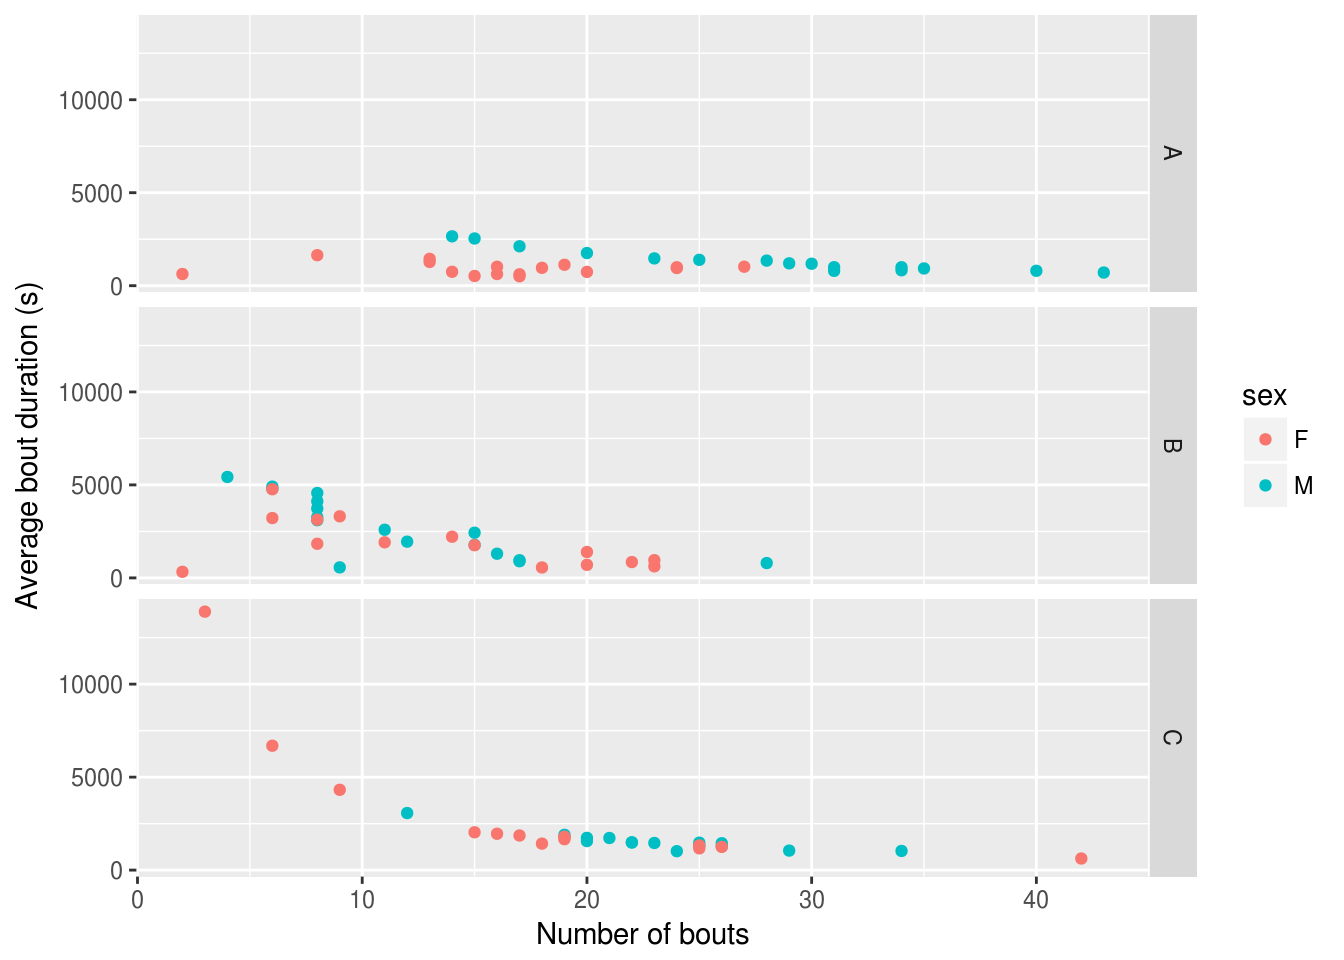
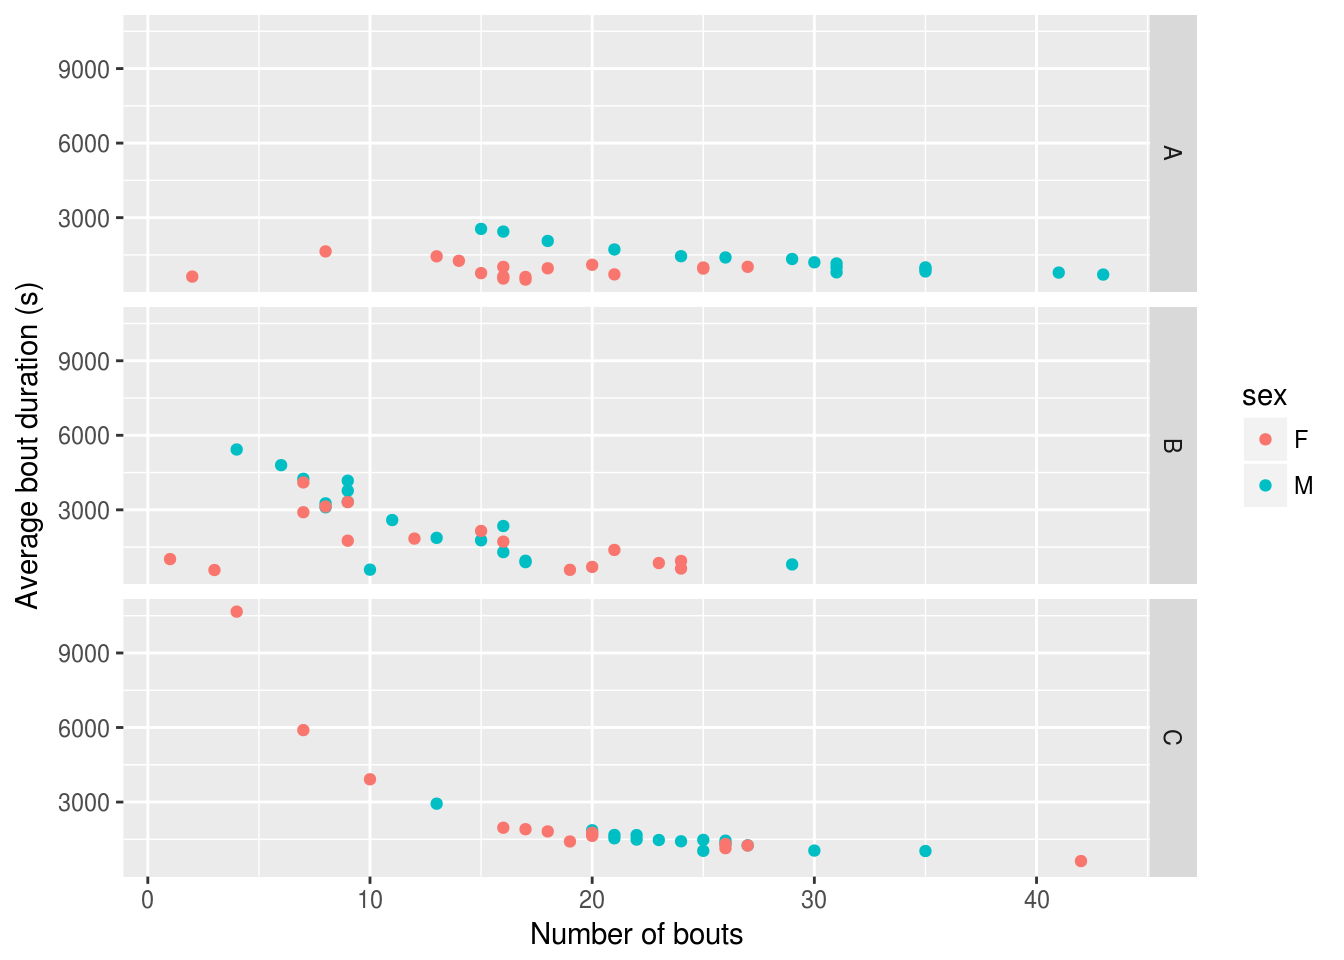
Automatic deployment after 68066b03ceca0eb52406b5132d9c520a94bd0461 [ci skip]

diff --git a/sleepr.html b/sleepr.html
@@ -397,17 +397,16 @@ dt_curated &lt;-<span class="st"> </span>dt_curated[id <span class="op">%in%</sp
 </div>
 <div id="trimming" class="section level3 unnumbered">
 <h3>Trimming</h3>
-<p>Generally, we want to remove point according the experimental time. For instance, lets say we would like to keep only the first 60 hours of data (i.e. 2.5 days)</p>
-<div class="sourceCode"><pre class="sourceCode r"><code class="sourceCode r">dt_curated &lt;-<span class="st"> </span>dt_curated[t <span class="op">%between%</span><span class="st"> </span><span class="kw">c</span>(<span class="kw">days</span>(<span class="dv">0</span>), <span class="kw">days</span>(<span class="fl">2.5</span>))]
+<p>Generally, we want to remove point according the experimental time. For instance, we want to remove the begining as animals are acclimatising to their new environment. In general, we could simply do:</p>
+<div class="sourceCode"><pre class="sourceCode r"><code class="sourceCode r">dt_curated &lt;-<span class="st"> </span>dt_curated[t <span class="op">%between%</span><span class="st"> </span><span class="kw">c</span>(<span class="kw">days</span>(<span class="dv">1</span>), <span class="kw">days</span>(<span class="fl">3.5</span>))]
 <span class="kw">summary</span>(dt_curated)</code></pre></div>
 <pre><code>## behavr table with:
 ##  94  individuals
 ##  8   metavariables
 ##  4   variables
-##  3.38494e+05 measurements
+##  2.19563e+05 measurements
 ##  1   key (id)</code></pre>
-<p>Which means we are only considering data <strong>between</strong> 0 and 2.5 days.</p>
-<p>The same principle can be used to remove the begining of an experiment. Fon instance when animals are acclimatising to their new environment.</p>
+<p>Which means we are only considering data <strong>between</strong> 1 and 3.5 days after the experiment started.</p>
 </div>
 </div>
 <div id="population-plots-1" class="section level2 unnumbered">
@@ -464,17 +463,17 @@ summary_dt</code></pre></div>
 ## 93: 2017-07-01 08:00:00|Monitor64.txt 2017-07-01 08:00:00    2017-07-04
 ## 94: 2017-07-01 08:00:00|Monitor64.txt 2017-07-01 08:00:00    2017-07-04
 ##     sex genotype replicate sleep_fraction
-##  1:   M        A         1      0.7600666
-##  2:   M        A         1      0.7550680
-##  3:   M        A         1      0.8214385
-##  4:   M        A         1      0.7528464
-##  5:   M        A         1      0.8044988
+##  1:   M        A         1      0.6956159
+##  2:   M        A         1      0.6817043
+##  3:   M        A         1      0.7613588
+##  4:   M        A         1      0.6984590
+##  5:   M        A         1      0.7443832
 ## ---                                      
-## 90:   F        C         1      0.7661761
-## 91:   F        C         1      0.6725909
-## 92:   F        C         1      0.7622883
-## 93:   F        C         1      0.7967231
-## 94:   F        C         1      0.9208553</code></pre>
+## 90:   F        C         1      0.7309454
+## 91:   F        C         1      0.5934455
+## 92:   F        C         1      0.7257455
+## 93:   F        C         1      0.7386745
+## 94:   F        C         1      0.9130982</code></pre>
 <p>With <code>rejoin</code>, we have put our summary and metadata together, which is suitable for standars graphics/statictics. For instance, if we are interested in the effect of sleep and genotype on sleep amount, we can make a faceted boxplot, and also add individual points to show all data.</p>
 <div class="sourceCode"><pre class="sourceCode r"><code class="sourceCode r"><span class="kw">ggplot</span>(summary_dt, <span class="kw">aes</span>(<span class="dt">x=</span>sex, <span class="dt">y=</span>sleep_fraction, <span class="dt">fill=</span>sex)) <span class="op">+</span><span class="st"> </span>
 <span class="st">  </span><span class="kw">geom_boxplot</span>(<span class="dt">outlier.colour =</span> <span class="ot">NA</span>) <span class="op">+</span>
@@ -535,29 +534,29 @@ summary_dt</code></pre></div>
 ## 93: 2017-07-01 08:00:00|Monitor64.txt 2017-07-01 08:00:00    2017-07-04
 ## 94: 2017-07-01 08:00:00|Monitor64.txt 2017-07-01 08:00:00    2017-07-04
 ##     sex genotype replicate sleep_fraction_all sleep_fraction_l
-##  1:   M        A         1          0.7600666        0.8500000
-##  2:   M        A         1          0.7550680        0.7861111
-##  3:   M        A         1          0.8214385        0.8356481
-##  4:   M        A         1          0.7528464        0.8555556
-##  5:   M        A         1          0.8044988        0.8444444
+##  1:   M        A         1          0.6956159        0.8270833
+##  2:   M        A         1          0.6817043        0.7854167
+##  3:   M        A         1          0.7613588        0.8402778
+##  4:   M        A         1          0.6984590        0.8541667
+##  5:   M        A         1          0.7443832        0.8395833
 ## ---                                                           
-## 90:   F        C         1          0.7661761        0.7504630
-## 91:   F        C         1          0.6725909        0.6370370
-## 92:   F        C         1          0.7622883        0.7523148
-## 93:   F        C         1          0.7967231        0.7773148
-## 94:   F        C         1          0.9208553        0.9643519
+## 90:   F        C         1          0.7309454        0.7118056
+## 91:   F        C         1          0.5934455        0.5465278
+## 92:   F        C         1          0.7257455        0.7229167
+## 93:   F        C         1          0.7386745        0.7152778
+## 94:   F        C         1          0.9130982        0.9777778
 ##     sleep_fraction_d
-##  1:        0.6252602
-##  2:        0.7085357
-##  3:        0.8001388
-##  4:        0.5988897
-##  5:        0.7446218
+##  1:        0.4973822
+##  2:        0.5251572
+##  3:        0.6371585
+##  4:        0.4651405
+##  5:        0.5952122
 ## ---                 
-## 90:        0.7897294
-## 91:        0.7258848
-## 92:        0.7772380
-## 93:        0.8258154
-## 94:        0.8556558</code></pre>
+## 90:        0.7596254
+## 91:        0.6760391
+## 92:        0.7300744
+## 93:        0.7743644
+## 94:        0.8142251</code></pre>
 <p>Now, we have three new variables: <code>sleep_fraction_all</code>, <code>sleep_fraction_l</code> and <code>sleep_fraction_d</code>. We can just replace the y axis with our variable of interest (e.g. sleep in D phase):</p>
 <div class="sourceCode"><pre class="sourceCode r"><code class="sourceCode r"><span class="kw">ggplot</span>(summary_dt, <span class="kw">aes</span>(<span class="dt">x=</span>sex, <span class="dt">y=</span>sleep_fraction_d, <span class="dt">fill=</span>sex)) <span class="op">+</span><span class="st"> </span>
 <span class="st">  </span><span class="kw">geom_boxplot</span>(<span class="dt">outlier.colour =</span> <span class="ot">NA</span>) <span class="op">+</span>
@@ -585,19 +584,14 @@ summary_dt</code></pre></div>
 <p>Say we wanted to compute, for <strong>females only</strong>, all pairwise tests between all genotype groups (A vs B, B vs C and C vs A). This could be formulated as:</p>
 <div class="sourceCode"><pre class="sourceCode r"><code class="sourceCode r"><span class="kw">pairwise.wilcox.test</span>(summary_dt[sex<span class="op">==</span><span class="st">&quot;F&quot;</span>, sleep_fraction_all], 
                      summary_dt[sex<span class="op">==</span><span class="st">&quot;F&quot;</span>, genotype])</code></pre></div>
-<pre><code>## Warning in wilcox.test.default(xi, xj, paired = paired, ...): cannot
-## compute exact p-value with ties
-
-## Warning in wilcox.test.default(xi, xj, paired = paired, ...): cannot
-## compute exact p-value with ties</code></pre>
 <pre><code>## 
 ##  Pairwise comparisons using Wilcoxon rank sum test 
 ## 
 ## data:  summary_dt[sex == &quot;F&quot;, sleep_fraction_all] and summary_dt[sex == &quot;F&quot;, genotype] 
 ## 
 ##   A       B     
-## B 0.0047  -     
-## C 4.1e-08 0.0018
+## B 0.0045  -     
+## C 4.1e-08 0.0045
 ## 
 ## P value adjustment method: holm</code></pre>
 <p>We get a matrix showing us all p-values. You could do that also within males, as long as we replace <code>sex == &quot;F&quot;</code> by <code>sex == &quot;M&quot;</code></p>
@@ -608,10 +602,10 @@ summary_dt</code></pre></div>
 <div class="sourceCode"><pre class="sourceCode r"><code class="sourceCode r">model &lt;-<span class="st"> </span><span class="kw">aov</span>(sleep_fraction_all <span class="op">~</span><span class="st"> </span>sex <span class="op">*</span><span class="st"> </span>genotype, summary_dt)
 <span class="kw">summary</span>(model)</code></pre></div>
 <pre><code>##              Df Sum Sq Mean Sq F value   Pr(&gt;F)    
-## sex           1 0.3235  0.3235   26.39 1.66e-06 ***
-## genotype      2 0.4417  0.2209   18.02 2.76e-07 ***
-## sex:genotype  2 0.3874  0.1937   15.80 1.37e-06 ***
-## Residuals    88 1.0786  0.0123                     
+## sex           1 0.3122 0.31222   23.46 5.42e-06 ***
+## genotype      2 0.5328 0.26638   20.02 6.83e-08 ***
+## sex:genotype  2 0.3496 0.17478   13.13 1.02e-05 ***
+## Residuals    88 1.1710 0.01331                     
 ## ---
 ## Signif. codes:  0 &#39;***&#39; 0.001 &#39;**&#39; 0.01 &#39;*&#39; 0.05 &#39;.&#39; 0.1 &#39; &#39; 1</code></pre>
 <p>This shows a strong affect of sex, genotype and their interaction on sleep amount. There are several way to follow up. For instance see this <a href="https://www.r-bloggers.com/two-way-analysis-of-variance-anova/">short tutorial</a>.</p>
@@ -695,16 +689,16 @@ summary_dt</code></pre></div>
 ## 
 ##                                       id n_bouts mean_bout_length
 ##                                   &lt;fctr&gt;   &lt;int&gt;            &lt;num&gt;
-##  1: 2017-07-01 08:00:00|Monitor11.txt|01      80         2052.000
-##  2: 2017-07-01 08:00:00|Monitor11.txt|02     109         1496.147
-##  3: 2017-07-01 08:00:00|Monitor11.txt|03      97         1829.072
-##  4: 2017-07-01 08:00:00|Monitor11.txt|04      95         1711.579
+##  1: 2017-07-01 08:00:00|Monitor11.txt|01      56         1785.000
+##  2: 2017-07-01 08:00:00|Monitor11.txt|02      69         1419.130
+##  3: 2017-07-01 08:00:00|Monitor11.txt|03      58         1854.828
+##  4: 2017-07-01 08:00:00|Monitor11.txt|04      65         1548.000
 ## ---                                                              
-## 90: 2017-07-01 08:00:00|Monitor64.txt|27      75         2206.400
-## 91: 2017-07-01 08:00:00|Monitor64.txt|29     142         1023.380
-## 92: 2017-07-01 08:00:00|Monitor64.txt|30      99         1663.636
-## 93: 2017-07-01 08:00:00|Monitor64.txt|31      67         2568.358
-## 94: 2017-07-01 08:00:00|Monitor64.txt|32      36         5525.000</code></pre>
+## 90: 2017-07-01 08:00:00|Monitor64.txt|27      53         1986.792
+## 91: 2017-07-01 08:00:00|Monitor64.txt|29     100          804.000
+## 92: 2017-07-01 08:00:00|Monitor64.txt|30      66         1570.909
+## 93: 2017-07-01 08:00:00|Monitor64.txt|31      39         2709.231
+## 94: 2017-07-01 08:00:00|Monitor64.txt|32      19         6868.421</code></pre>
 <p>You could apply the approach presented before to compute statistics according the the phase (night vs day bouts).</p>
 </div>
 <div id="latency-to-sleep" class="section level3 unnumbered">
@@ -733,11 +727,11 @@ bout_summary</code></pre></div>
 ##  3: 2017-07-01 08:00:00|Monitor11.txt|03    &lt;list&gt;         3
 ##  4: 2017-07-01 08:00:00|Monitor11.txt|04    &lt;list&gt;         4
 ## ---                                                         
-## 89: 2017-07-01 08:00:00|Monitor64.txt|27    &lt;list&gt;        27
-## 90: 2017-07-01 08:00:00|Monitor64.txt|29    &lt;list&gt;        29
-## 91: 2017-07-01 08:00:00|Monitor64.txt|30    &lt;list&gt;        30
-## 92: 2017-07-01 08:00:00|Monitor64.txt|31    &lt;list&gt;        31
-## 93: 2017-07-01 08:00:00|Monitor64.txt|32    &lt;list&gt;        32
+## 90: 2017-07-01 08:00:00|Monitor64.txt|27    &lt;list&gt;        27
+## 91: 2017-07-01 08:00:00|Monitor64.txt|29    &lt;list&gt;        29
+## 92: 2017-07-01 08:00:00|Monitor64.txt|30    &lt;list&gt;        30
+## 93: 2017-07-01 08:00:00|Monitor64.txt|31    &lt;list&gt;        31
+## 94: 2017-07-01 08:00:00|Monitor64.txt|32    &lt;list&gt;        32
 ##                         experiment_id      start_datetime stop_datetime
 ##                                &lt;char&gt;              &lt;POSc&gt;        &lt;char&gt;
 ##  1: 2017-07-01 08:00:00|Monitor11.txt 2017-07-01 08:00:00    2017-07-04
@@ -745,11 +739,11 @@ bout_summary</code></pre></div>
 ##  3: 2017-07-01 08:00:00|Monitor11.txt 2017-07-01 08:00:00    2017-07-04
 ##  4: 2017-07-01 08:00:00|Monitor11.txt 2017-07-01 08:00:00    2017-07-04
 ## ---                                                                    
-## 89: 2017-07-01 08:00:00|Monitor64.txt 2017-07-01 08:00:00    2017-07-04
 ## 90: 2017-07-01 08:00:00|Monitor64.txt 2017-07-01 08:00:00    2017-07-04
 ## 91: 2017-07-01 08:00:00|Monitor64.txt 2017-07-01 08:00:00    2017-07-04
 ## 92: 2017-07-01 08:00:00|Monitor64.txt 2017-07-01 08:00:00    2017-07-04
 ## 93: 2017-07-01 08:00:00|Monitor64.txt 2017-07-01 08:00:00    2017-07-04
+## 94: 2017-07-01 08:00:00|Monitor64.txt 2017-07-01 08:00:00    2017-07-04
 ##        sex genotype replicate
 ##     &lt;char&gt;   &lt;char&gt;     &lt;int&gt;
 ##  1:      M        A         1
@@ -757,38 +751,38 @@ bout_summary</code></pre></div>
 ##  3:      M        A         1
 ##  4:      M        A         1
 ## ---                          
-## 89:      F        C         1
 ## 90:      F        C         1
 ## 91:      F        C         1
 ## 92:      F        C         1
 ## 93:      F        C         1
+## 94:      F        C         1
 ## 
 ##  ====== DATA ======
 ## 
 ##                                       id latency first_bout_length
 ##                                   &lt;fctr&gt;   &lt;num&gt;             &lt;num&gt;
-##  1: 2017-07-01 08:00:00|Monitor11.txt|01    2940               360
-##  2: 2017-07-01 08:00:00|Monitor11.txt|02    3540               420
-##  3: 2017-07-01 08:00:00|Monitor11.txt|03    4500               300
-##  4: 2017-07-01 08:00:00|Monitor11.txt|04    1080               720
+##  1: 2017-07-01 08:00:00|Monitor11.txt|01       0              1560
+##  2: 2017-07-01 08:00:00|Monitor11.txt|02       0              1020
+##  3: 2017-07-01 08:00:00|Monitor11.txt|03       0              1200
+##  4: 2017-07-01 08:00:00|Monitor11.txt|04       0               960
 ## ---                                                               
-## 89: 2017-07-01 08:00:00|Monitor64.txt|27    6120               300
-## 90: 2017-07-01 08:00:00|Monitor64.txt|29     900               540
-## 91: 2017-07-01 08:00:00|Monitor64.txt|30    2100               300
-## 92: 2017-07-01 08:00:00|Monitor64.txt|31    4380               420
-## 93: 2017-07-01 08:00:00|Monitor64.txt|32    2160              5640
+## 90: 2017-07-01 08:00:00|Monitor64.txt|27       0              1140
+## 91: 2017-07-01 08:00:00|Monitor64.txt|29     900               540
+## 92: 2017-07-01 08:00:00|Monitor64.txt|30       0              1020
+## 93: 2017-07-01 08:00:00|Monitor64.txt|31       0              1200
+## 94: 2017-07-01 08:00:00|Monitor64.txt|32       0              1140
 ##     latency_to_longest_bout length_longest_bout n_bouts mean_bout_length
 ##                       &lt;num&gt;               &lt;num&gt;   &lt;int&gt;            &lt;num&gt;
-##  1:                   27000                3300      25        1392.0000
-##  2:                   17760                6300      23        1468.6957
-##  3:                   37920                3600      29        1204.1379
-##  4:                   30600                6240      28        1350.0000
+##  1:                   27000                3300      26        1398.4615
+##  2:                   17760                6300      24        1450.0000
+##  3:                   37920                3600      30        1204.0000
+##  4:                   30600                6240      29        1336.5517
 ## ---                                                                     
-## 89:                   14160                6720      19        1800.0000
-## 90:                   11400                1980      42         625.7143
-## 91:                   35820                4560      25        1329.6000
-## 92:                   21360               14760      19        1664.2105
-## 93:                   26820               15360       6        6690.0000</code></pre>
+## 90:                   14160                6720      20        1767.0000
+## 91:                   11400                1980      42         625.7143
+## 92:                   35820                4560      26        1317.6923
+## 93:                   21360               14760      20        1641.0000
+## 94:                   26820               15360       7        5897.1429</code></pre>
 <p>For good measures, I also added number of bout and average bout length as we have seen before. You can of course use these result to plot things like the relationship between bout length and bout number:</p>
 <div class="sourceCode"><pre class="sourceCode r"><code class="sourceCode r"><span class="kw">ggplot</span>(<span class="kw">rejoin</span>(bout_summary), <span class="kw">aes</span>(n_bouts, mean_bout_length, <span class="dt">colour=</span>sex)) <span class="op">+</span>
 <span class="st">    </span><span class="kw">geom_point</span>() <span class="op">+</span>
@@ -811,11 +805,11 @@ overall_summary</code></pre></div>
 ##  4: 2017-07-01 08:00:00|Monitor11.txt|04    &lt;list&gt;         4
 ##  5: 2017-07-01 08:00:00|Monitor11.txt|05    &lt;list&gt;         5
 ## ---                                                         
-## 89: 2017-07-01 08:00:00|Monitor64.txt|27    &lt;list&gt;        27
-## 90: 2017-07-01 08:00:00|Monitor64.txt|29    &lt;list&gt;        29
-## 91: 2017-07-01 08:00:00|Monitor64.txt|30    &lt;list&gt;        30
-## 92: 2017-07-01 08:00:00|Monitor64.txt|31    &lt;list&gt;        31
-## 93: 2017-07-01 08:00:00|Monitor64.txt|32    &lt;list&gt;        32
+## 90: 2017-07-01 08:00:00|Monitor64.txt|27    &lt;list&gt;        27
+## 91: 2017-07-01 08:00:00|Monitor64.txt|29    &lt;list&gt;        29
+## 92: 2017-07-01 08:00:00|Monitor64.txt|30    &lt;list&gt;        30
+## 93: 2017-07-01 08:00:00|Monitor64.txt|31    &lt;list&gt;        31
+## 94: 2017-07-01 08:00:00|Monitor64.txt|32    &lt;list&gt;        32
 ##                         experiment_id      start_datetime stop_datetime
 ##  1: 2017-07-01 08:00:00|Monitor11.txt 2017-07-01 08:00:00    2017-07-04
 ##  2: 2017-07-01 08:00:00|Monitor11.txt 2017-07-01 08:00:00    2017-07-04
@@ -823,47 +817,47 @@ overall_summary</code></pre></div>
 ##  4: 2017-07-01 08:00:00|Monitor11.txt 2017-07-01 08:00:00    2017-07-04
 ##  5: 2017-07-01 08:00:00|Monitor11.txt 2017-07-01 08:00:00    2017-07-04
 ## ---                                                                    
-## 89: 2017-07-01 08:00:00|Monitor64.txt 2017-07-01 08:00:00    2017-07-04
 ## 90: 2017-07-01 08:00:00|Monitor64.txt 2017-07-01 08:00:00    2017-07-04
 ## 91: 2017-07-01 08:00:00|Monitor64.txt 2017-07-01 08:00:00    2017-07-04
 ## 92: 2017-07-01 08:00:00|Monitor64.txt 2017-07-01 08:00:00    2017-07-04
 ## 93: 2017-07-01 08:00:00|Monitor64.txt 2017-07-01 08:00:00    2017-07-04
+## 94: 2017-07-01 08:00:00|Monitor64.txt 2017-07-01 08:00:00    2017-07-04
 ##     sex genotype replicate sleep_fraction_all sleep_fraction_l
-##  1:   M        A         1          0.7600666        0.8500000
-##  2:   M        A         1          0.7550680        0.7861111
-##  3:   M        A         1          0.8214385        0.8356481
-##  4:   M        A         1          0.7528464        0.8555556
-##  5:   M        A         1          0.8044988        0.8444444
+##  1:   M        A         1          0.6956159        0.8270833
+##  2:   M        A         1          0.6817043        0.7854167
+##  3:   M        A         1          0.7613588        0.8402778
+##  4:   M        A         1          0.6984590        0.8541667
+##  5:   M        A         1          0.7443832        0.8395833
 ## ---                                                           
-## 89:   F        C         1          0.7661761        0.7504630
-## 90:   F        C         1          0.6725909        0.6370370
-## 91:   F        C         1          0.7622883        0.7523148
-## 92:   F        C         1          0.7967231        0.7773148
-## 93:   F        C         1          0.9208553        0.9643519
+## 90:   F        C         1          0.7309454        0.7118056
+## 91:   F        C         1          0.5934455        0.5465278
+## 92:   F        C         1          0.7257455        0.7229167
+## 93:   F        C         1          0.7386745        0.7152778
+## 94:   F        C         1          0.9130982        0.9777778
 ##     sleep_fraction_d latency first_bout_length latency_to_longest_bout
-##  1:        0.6252602    2940               360                   27000
-##  2:        0.7085357    3540               420                   17760
-##  3:        0.8001388    4500               300                   37920
-##  4:        0.5988897    1080               720                   30600
-##  5:        0.7446218    2760               300                   14820
+##  1:        0.4973822       0              1560                   27000
+##  2:        0.5251572       0              1020                   17760
+##  3:        0.6371585       0              1200                   37920
+##  4:        0.4651405       0               960                   30600
+##  5:        0.5952122       0               960                   14820
 ## ---                                                                   
-## 89:        0.7897294    6120               300                   14160
-## 90:        0.7258848     900               540                   11400
-## 91:        0.7772380    2100               300                   35820
-## 92:        0.8258154    4380               420                   21360
-## 93:        0.8556558    2160              5640                   26820
+## 90:        0.7596254       0              1140                   14160
+## 91:        0.6760391     900               540                   11400
+## 92:        0.7300744       0              1020                   35820
+## 93:        0.7743644       0              1200                   21360
+## 94:        0.8142251       0              1140                   26820
 ##     length_longest_bout n_bouts mean_bout_length
-##  1:                3300      25        1392.0000
-##  2:                6300      23        1468.6957
-##  3:                3600      29        1204.1379
-##  4:                6240      28        1350.0000
-##  5:                5880      15        2540.0000
+##  1:                3300      26        1398.4615
+##  2:                6300      24        1450.0000
+##  3:                3600      30        1204.0000
+##  4:                6240      29        1336.5517
+##  5:                5880      16        2441.2500
 ## ---                                             
-## 89:                6720      19        1800.0000
-## 90:                1980      42         625.7143
-## 91:                4560      25        1329.6000
-## 92:               14760      19        1664.2105
-## 93:               15360       6        6690.0000</code></pre>
+## 90:                6720      20        1767.0000
+## 91:                1980      42         625.7143
+## 92:                4560      26        1317.6923
+## 93:               14760      20        1641.0000
+## 94:               15360       7        5897.1429</code></pre>
 <div class="sourceCode"><pre class="sourceCode r"><code class="sourceCode r"><span class="kw">ggplot</span>(overall_summary, <span class="kw">aes</span>(latency <span class="op">/</span><span class="st"> </span><span class="dv">60</span>, sleep_fraction_l, <span class="dt">colour=</span>sex)) <span class="op">+</span>
 <span class="st">    </span><span class="kw">geom_point</span>() <span class="op">+</span>
 <span class="st">    </span><span class="kw">geom_smooth</span>(<span class="dt">method=</span><span class="st">&quot;lm&quot;</span>, <span class="dt">alpha=</span>.<span class="dv">1</span>)<span class="op">+</span>

diff --git a/scopr.html b/scopr.html
@@ -704,7 +704,7 @@ dt &lt;-<span class="st"> </span><span class="kw">load_ethoscope</span>(metadata
                        <span class="dt">verbose=</span><span class="ot">FALSE</span>)
 )</code></pre></div>
 <pre><code>##    user  system elapsed 
-## 148.461   3.388 151.205</code></pre>
+## 156.149   3.452 158.689</code></pre>
 <p>However, the next time, we do the same thing way faster:</p>
 <div class="sourceCode"><pre class="sourceCode r"><code class="sourceCode r"><span class="kw">system.time</span>(
   dt &lt;-<span class="st"> </span><span class="kw">load_ethoscope</span>(metadata,
@@ -714,7 +714,7 @@ dt &lt;-<span class="st"> </span><span class="kw">load_ethoscope</span>(metadata
                        <span class="dt">verbose=</span><span class="ot">FALSE</span>)
 )</code></pre></div>
 <pre><code>##    user  system elapsed 
-##   2.008   0.051   2.013</code></pre>
+##   1.903   0.056   1.917</code></pre>
 <p>Here, we set <code>cache</code> to <code>&quot;ethoscope_cache&quot;</code>. This creates a new directory called <code>&quot;ethoscope_cache&quot;</code> (you can pick the name and location you want). If you to do a bit of tidying up, you can remove it without risk (it will just take time next time you load your data).</p>
 </div>
 </div>
